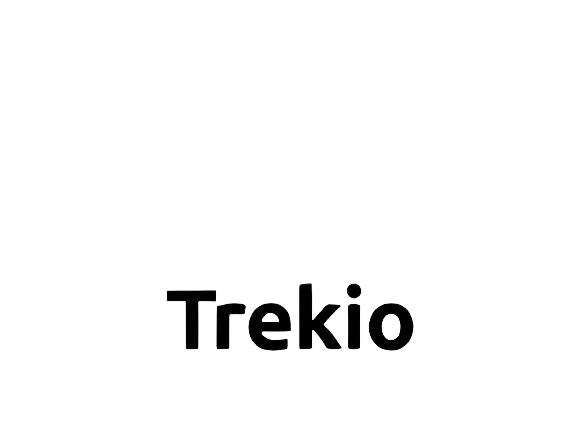
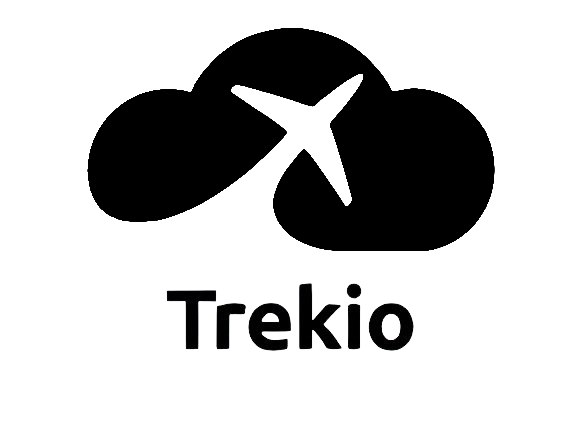
feat(front): cria novo design de interface

Changed region(s): [[0.1231, 0.0609, 0.8615, 0.6089]]

diff --git a/front/src/pages/Chat/Chat.js b/front/src/pages/Chat/Chat.js
@@ -1,21 +1,46 @@
 import React from 'react';
-import { Header } from '../../components/Header';
-import { Input } from '../../components/Input';
-import { FaPlaneDeparture } from "react-icons/fa";
+import './chat.css'
+import { FaArrowLeft } from "react-icons/fa";
+import { Link } from 'react-router-dom';
+import { FaPlaneDeparture, FaUserCircle } from "react-icons/fa";
+import axios from 'axios';
 
 const Chat = () => {
-  return (
-    <div>
-        <Header/>
-        <div>
-          <Input type='text' placeholder='Destino' />
-          <Input type='number' placeholder='Dias' />
-          <Input type='text' placeholder='Passageiros' />
-          <button>Pesquisar <FaPlaneDeparture/></button>
+
+  function enviar() {
+    const pergunta = document.getElementById("prompt").value;
+    axios
+      .post("http://localhost:4000/pergunte-ao-chatgpt", { prompt: pergunta })
+      .then((res) => {
+        document.getElementById("completion").innerText = res.data.completion;
+        document.getElementById("pergunta").innerText = pergunta;
+        document.getElementById("prompt").value = '';
+      })
+      .catch((erro) => {
+        console.log(erro);
+      });
+  }
+
+   return (
+    <div id='page__chat'> 
+      <Link to="/home"><FaArrowLeft className='page__chat-back'/></Link>
+      <div className='page__chat-interacoes'>
+        <div className='page__chat-ask'>
+          <div className='page__chat-user'>
+            <FaUserCircle />
+            <p>Você:</p>
+            <p id="pergunta"></p>
+          </div>
+          <div className='page__chat-user'>
+            <FaUserCircle />
+            <p>ChatGPT:</p>
+          </div>
+          <p id="completion"></p>
         </div>
-        <div></div>
+        <button className='searchBar__button' onClick={enviar}><FaPlaneDeparture /></button>
+      </div>
     </div>
-  )
+   )
 }
 
 export default Chat;

diff --git a/front/src/components/main/main.css b/front/src/components/main/main.css
@@ -1,0 +1,70 @@
+.content {
+    height: 100vh;
+    display: flex;
+    flex-direction: column;
+    align-items: center;
+    padding: 2rem;
+}
+
+.content-introduction {
+    width: 100%;
+    height: 100%;
+    background-image: url('../../assets/img/kaotaru-dCOuYgsm9X8-unsplash.jpg');
+    background-size: cover;
+    background-position: bottom;
+    border-radius: 1rem;
+    display: flex;
+    flex-direction: column;
+    justify-content: center;
+    padding: 0 10rem;
+    gap: 2rem;
+}
+
+.app__main-introduction-text {
+    color: black;
+    font-size: 3em;
+    font-weight: bold;
+}
+
+.app__main-introduction-text strong {
+    font-size: 6rem;
+}
+
+.app__main-introduction-button {
+    width: 15rem;
+    height: 90%;
+    padding: 0.5rem 1rem;
+    background-color: #000;
+    border-radius: 20px;
+    color: #fff;
+    font-weight: bold;
+    display: flex;
+    align-items: center;
+    justify-content: center;
+    gap: 0.5rem;
+    cursor: pointer;
+    transition: 0.5s ease all;
+}
+
+.content-howtotravel {
+    border-radius: 20px;
+    height: 8rem;
+    display: flex;
+    align-items: center;
+    justify-content: space-around;
+    padding: 1rem;
+    background-color: #fff;
+}
+
+.content-howtotravel-item {
+    display: flex;
+    align-items: center;
+    gap: 1rem;
+}
+
+.content-howtotravel-img {
+    width: 64px;
+    font-size: 2.5rem;
+    color: var(--color-primary);
+    
+}

diff --git a/front/src/components/main/Main.js b/front/src/components/main/Main.js
@@ -1,0 +1,34 @@
+import React from 'react'
+import './main.css'
+import { FaPlaneDeparture } from "react-icons/fa";
+import { Link } from 'react-router-dom';
+import svgAirPlane from '../../assets/img/fi-rr-plane.svg'
+import { IoLocationSharp } from "react-icons/io5";
+
+export const Main = () => {
+  return (
+    <section className='content'>
+        <div className="content-introduction">
+          <p className='app__main-introduction-text'><strong>Trilhe</strong><br />suas próximas aventuras <br />com nossos roteiros!</p>
+          <div className='content-howtotravel'>
+            <div className='content-howtotravel-item'>
+              <IoLocationSharp className='content-howtotravel-img' /> 
+              <p>Informe seu destino</p>
+            </div>
+            &gt;
+            <div className='content-howtotravel-item'>
+              <img src={svgAirPlane} alt="" className='content-howtotravel-img' />
+              <p>Tempo da sua jornada</p>
+            </div>
+            &gt;
+            <div className='content-howtotravel-item'>
+              <img src={svgAirPlane} alt="" className='content-howtotravel-img' />
+              <p>Seu objetivo</p>
+            </div>
+            &gt;
+            <Link to="/chat" className='app__main-introduction-button'><FaPlaneDeparture/>Descubra</Link>
+          </div>
+        </div>
+    </section>
+  )
+}

diff --git a/front/src/pages/Chat/chat.css b/front/src/pages/Chat/chat.css
@@ -1,0 +1,41 @@
+#page__chat {
+    height: 100vh;
+    padding: 1.1rem;
+    background-color: black;
+    display: flex;
+    flex-direction: column;
+    justify-content: center;
+    gap: 1rem;
+}
+
+.page__chat-interacoes {
+    width: 100%;
+    height: 100%;
+    border-radius: 1rem;
+    background-color: white;
+    display: flex;
+    flex-direction: column;
+    justify-content: flex-end;
+    padding: 1rem;
+}
+
+.page__chat-back {
+    font-size: 2rem;
+    color: white;
+}
+
+.page__chat-ask {
+    display: flex;
+    flex-direction: column;
+    gap: 1rem;
+}
+
+.page__chat-user {
+    display: flex;
+    gap: 0.5rem;
+    font-size: 1.3rem;
+}
+
+#completion {
+    margin: 0 1.2rem;
+}

diff --git a/front/src/components/about/about.css b/front/src/components/about/about.css
@@ -1,0 +1,34 @@
+.app__about {
+    background: rgb(255,255,255);
+    background: linear-gradient(0deg, rgba(255,255,255,1) 0%, rgba(198,237,252,1) 100%);
+    padding: 10%;
+}
+
+.app__main-introduction-button:hover {
+    background-color: #fff;
+    color: #0C7BD9;
+}
+
+.app__about-container {
+    display: flex;
+    flex-direction: column;
+    align-items: center;
+    gap: 60px;
+}
+
+.app__about-title {
+    color: #0C7BD9;
+    font-size: 2.5em;
+    font-weight: bold;
+}
+
+.app__about-p {
+    text-align: center;
+    font-size: 1.5em;
+    font-weight: bold;
+}
+
+.app__about-card{
+    display: flex;
+    gap: 50px;
+}

diff --git a/front/src/components/header/header.css b/front/src/components/header/header.css
@@ -1,0 +1,33 @@
+header {
+    height: 6rem;
+    display: flex;
+    align-items: center;
+    justify-content: space-between;
+    padding: 0 5rem;   
+}
+
+.app__header-logo {
+    width: 120px;
+    margin-top: 10px;
+    cursor: pointer;
+}
+
+.app__header-navbarList {
+    display: flex;
+    align-items: center;
+    color: black;
+    font-size: 1.1rem;
+    gap: 3rem;
+}
+
+.app__header-navbarList-item {
+    color: black;
+    font-weight: 600;
+    letter-spacing: 0.5px;
+    cursor: pointer;
+    transition: 0.5s ease all;
+}
+
+.app__header-navbarList-item:hover {
+    color: black;
+}

diff --git a/front/src/components/about/About.js b/front/src/components/about/About.js
@@ -1,10 +1,10 @@
 import React from "react";
-import { Card } from "./Card";
-import backpack from '../assets/img/backpack.png'
-import tickets from '../assets/img/tickets.png'
-import restaurant from '../assets/img/restaurant.png'
-import idea from '../assets/img/idea.png'
-
+import { Card } from "../card/Card";
+import backpack from '../../assets/img/backpack.png'
+import tickets from '../../assets/img/tickets.png'
+import restaurant from '../../assets/img/restaurant.png'
+import idea from '../../assets/img/idea.png'
+import './about.css'
 
 export const About = () => {
   return (

diff --git a/front/src/components/header/Header.js b/front/src/components/header/Header.js
@@ -1,7 +1,6 @@
 import React from 'react'
-import logo from '../assets/img/trekio.png'
-import '../assets/css/styles.css'
-import '../assets/css/global.css'
+import logo from '../../assets/img/trekio.png'
+import './header.css'
 import { Link } from 'react-router-dom'
 
 export const Header = () => {
@@ -19,7 +18,6 @@ export const Header = () => {
                 </li>
             </ul>
         </nav>
-        <div></div>
     </header>
   )
 }

diff --git a/front/src/components/card/card.css b/front/src/components/card/card.css
@@ -1,0 +1,24 @@
+.app__card-border {
+    width: 100%;
+    height: auto;
+    border: 2px solid black;
+    padding: 35px;
+    border-radius: 50%;
+}
+
+.app__card {
+    display: flex;
+    flex-direction: column;
+    align-items: center;
+    gap: 10px;
+}
+
+.app__card-text {
+    font-size: 1.2em;
+    font-weight: bold;
+}
+
+.app__about-card{
+    display: flex;
+    gap: 50px;
+}

diff --git a/front/src/pages/home/Home.js b/front/src/pages/home/Home.js
@@ -1,6 +1,6 @@
-import { Header } from '../../components/Header';
-import { Main } from '../../components/Main';
-import { About } from '../../components/About';
+import { Header } from '../../components/header/Header';
+import { Main } from '../../components/main/Main';
+import { About } from '../../components/about/About';
 
 export const Home = () => {
   return (

diff --git a/front/src/index.css b/front/src/index.css
@@ -1,3 +1,5 @@
+@import url('https://fonts.googleapis.com/css2?family=Inter:wght@100..900&display=swap');
+
 * {
     margin: 0;
     padding: 0;
@@ -5,6 +7,11 @@
     list-style: none;
     text-decoration: none;
     outline: none;
+    font-family: 'Inter', sans-serif;
+}
+
+html {
+    scroll-behavior: smooth;
 }
 
 :root {

diff --git a/front/src/index.js b/front/src/index.js
@@ -1,6 +1,7 @@
 import React from 'react'
 import ReactDOM from 'react-dom'
 import { App } from './components/App'
+import './index.css'
 
 ReactDOM.render(
     <App />,
